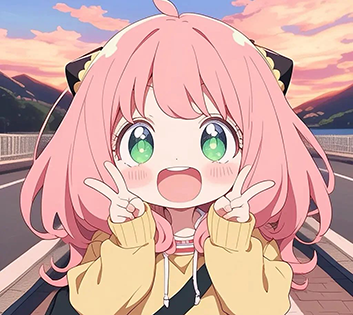
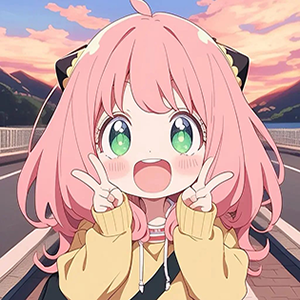
1

diff --git a/README.md b/README.md
@@ -1,14 +1,6 @@
 ## Hi there 👋
 
-<picture>
-  <source media="(max-width: 768px)" srcset="">
-  <img align = right src="img/1.png" width="300" style="max-width: 100%; height: auto;">
-</picture>
-
- 
-
-
-
+<img align = right src="img/1.jpg" width = 300>
 
 你好呀~ 这里是 **fluffyBloomX**. 最喜欢聊天和写代码了 qwq  
 - 🌱 喜欢的语言: Python,C++,Java,Swift ~~虽然我都不会~~  
